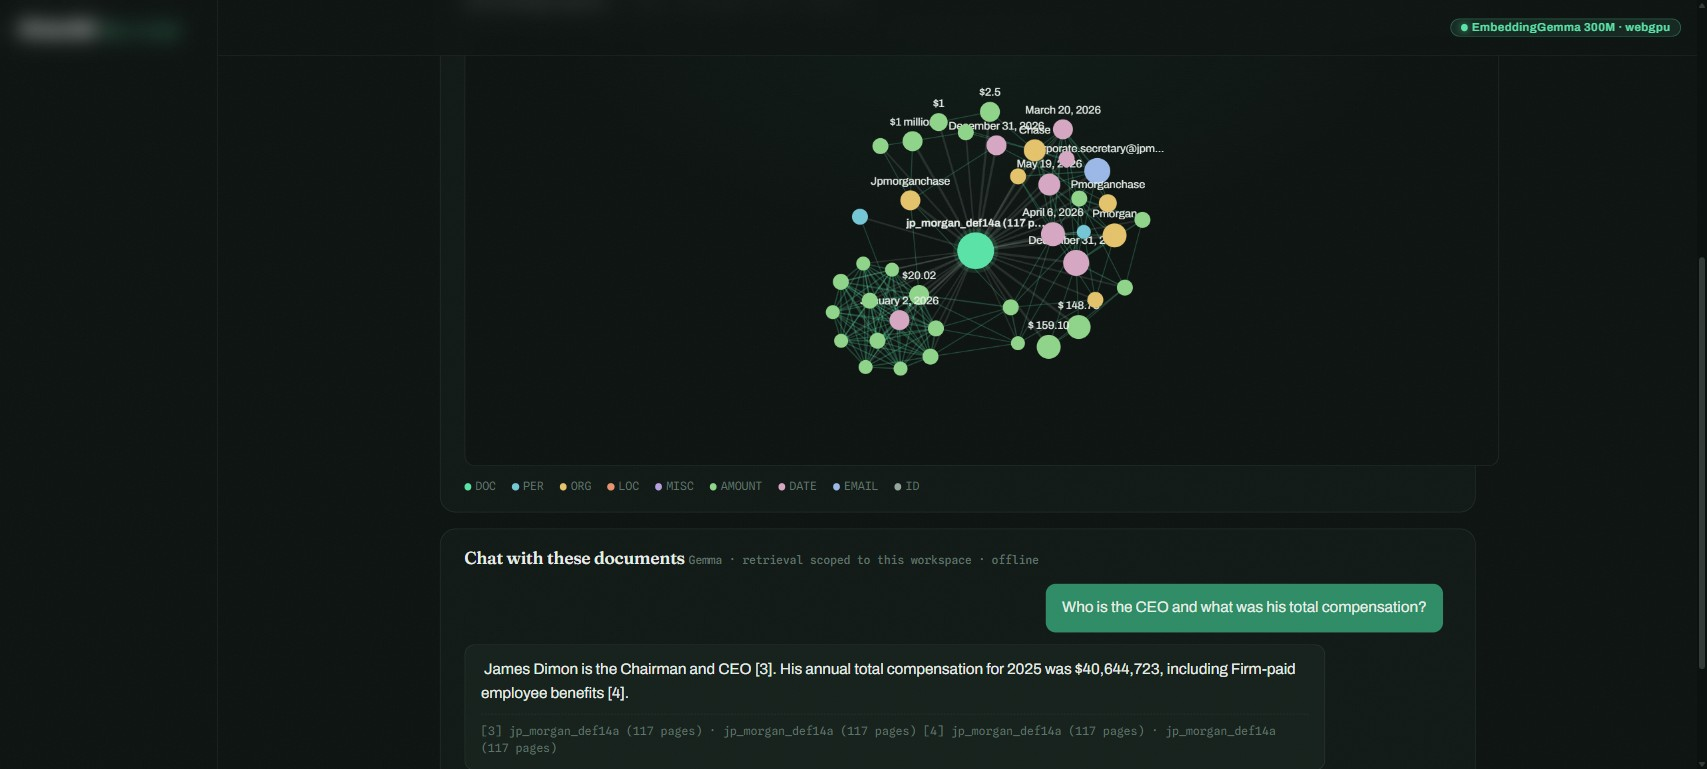
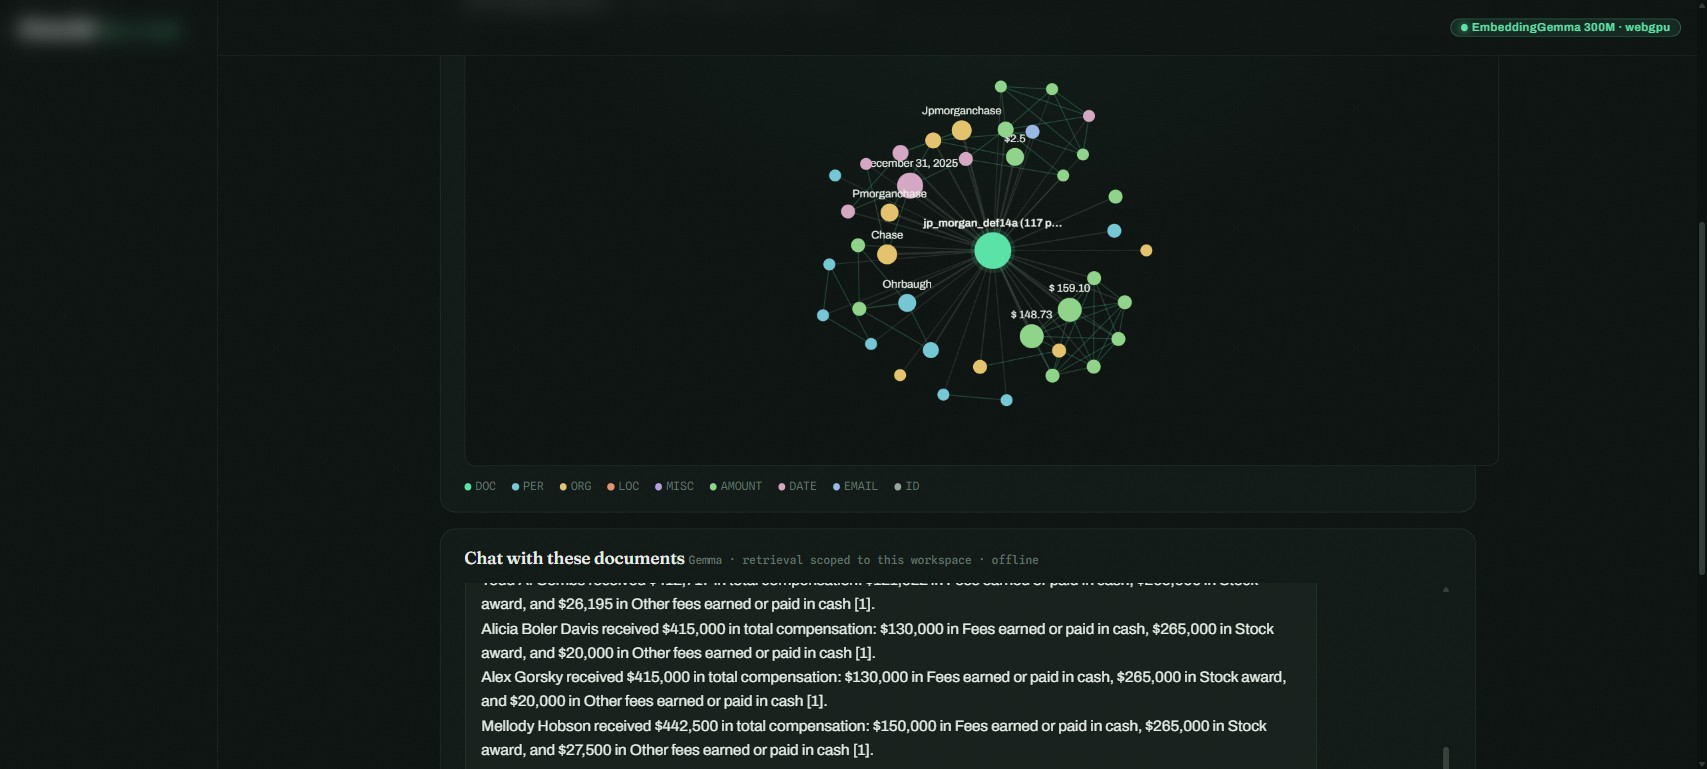
Workspace chat quality: table-faithful extraction and full-coverage retrieval
- PDF extraction marks wide x-gaps as column separators so table cells
  no longer collide when linearized
- Chunker splits blank-line-free blocks (PDF table pages) at line
  boundaries: chunks were exceeding the embedder window and prompts
- Embed the whole document (cap 500 chunks); NER samples evenly instead
  (retrieval quality collapsed on sampled indexes for table questions)
- Prompt: copy numbers exactly, cells are |-separated; cite footer dedupe
- Validated on JP Morgan DEF 14A: all 9 director compensation rows now
  itemized with arithmetic-consistent cash/stock/other breakdowns

diff --git a/src/services/workspaceService.js b/src/services/workspaceService.js
@@ -94,13 +94,19 @@ export async function ingestFiles(fileList) {
     ws.chunks.push(...chunks.map((c) => ({ ...c, docTitle: title })))
     patchDoc({ chunks: chunks.length, status: 'extracting' })
 
-    // 2. entity extraction per chunk (NER + patterns)
+    // 2. entity extraction (NER + patterns) over an even sample — the
+    // graph needs representative coverage, not every chunk
+    let nerChunks = chunks
+    if (chunks.length > cfg.nerChunksPerDoc) {
+      const stride = chunks.length / cfg.nerChunksPerDoc
+      nerChunks = Array.from({ length: cfg.nerChunksPerDoc }, (_, i) => chunks[Math.floor(i * stride)])
+    }
     let docEntities = 0
     let chunkIndex = 0
-    for (const chunk of chunks) {
+    for (const chunk of nerChunks) {
       chunkIndex += 1
       useStore.getState().patchWorkspace({
-        progress: { docName: title, phase: `entities ${chunkIndex}/${chunks.length}` },
+        progress: { docName: title, phase: `entities ${chunkIndex}/${nerChunks.length}` },
       })
       const found = await extractEntities(chunk.text)
       for (const e of found) {
@@ -261,8 +267,10 @@ export function truncateAtRunaway(text) {
 }
 
 function buildChatPrompt(question, passages, history) {
+  // chunks are already size-bounded by the chunker; sending them whole
+  // matters for tables, where truncation conflates adjacent rows
   const context = passages
-    .map((p, i) => `[${i + 1}] ${p.docTitle} — ${p.heading}\n${p.text.slice(0, 900)}`)
+    .map((p, i) => `[${i + 1}] ${p.docTitle} — ${p.heading}\n${p.text}`)
     .join('\n\n')
   const turns = history
     .map((m) => `${m.role === 'user' ? 'User' : 'Assistant'}: ${m.text}`)
@@ -270,6 +278,8 @@ function buildChatPrompt(question, passages, history) {
   return [
     'You are a document analyst. Answer using ONLY the numbered excerpts below.',
     'Cite excerpts as [1], [2]… after claims. If the excerpts do not contain the answer, say so plainly.',
+    'Copy names and numbers EXACTLY as they appear in the excerpts — never round, merge or invent figures.',
+    'In table excerpts, cells are separated by "|" — read each row carefully.',
     'Be concise. Never repeat a sentence. Give exactly one answer, then stop.',
     '',
     context,
@@ -282,8 +292,15 @@ function buildChatPrompt(question, passages, history) {
 
 function citedDocs(text, passages) {
   const nums = [...new Set([...text.matchAll(/\[(\d+)\]/g)].map((m) => Number(m[1])))]
-  return nums
-    .map((n) => passages[n - 1])
-    .filter(Boolean)
-    .map((p, i) => ({ n: nums[i], title: p.docTitle, heading: p.heading }))
+  const seen = new Set()
+  const out = []
+  for (const n of nums) {
+    const p = passages[n - 1]
+    if (!p || seen.has(n)) continue
+    seen.add(n)
+    // PDFs without markdown headings inherit the doc title as heading — skip the duplicate
+    const heading = p.heading && p.heading !== p.docTitle ? p.heading : null
+    out.push({ n, title: p.docTitle, heading })
+  }
+  return out
 }

diff --git a/src/ml/chunker.js b/src/ml/chunker.js
@@ -33,11 +33,16 @@ export function chunkDocument(doc, cfg) {
       heading = block.heading
       continue
     }
-    if (buf.length + block.text.length > cfg.targetChars && buf.length >= cfg.minChars) {
-      flush()
-      buf = overlapTail ? overlapTail + '\n' : ''
+    // PDF table pages arrive as one giant blank-line-free block; split it
+    // at line boundaries or the chunk exceeds the embedder's window and
+    // gets silently truncated at inference time
+    for (const piece of splitOversized(block.text, cfg.targetChars)) {
+      if (buf.length + piece.length > cfg.targetChars && buf.length >= cfg.minChars) {
+        flush()
+        buf = overlapTail ? overlapTail + '\n' : ''
+      }
+      buf += (buf ? '\n\n' : '') + piece
     }
-    buf += (buf ? '\n\n' : '') + block.text
   }
   flush()
 
@@ -47,6 +52,27 @@ export function chunkDocument(doc, cfg) {
     chunks[chunks.length - 1].text += '\n\n' + runt.text
   }
   return chunks
+}
+
+function splitOversized(text, targetChars) {
+  if (text.length <= targetChars) return [text]
+  const pieces = []
+  let buf = ''
+  for (const line of text.split('\n')) {
+    if (buf && buf.length + line.length + 1 > targetChars) {
+      pieces.push(buf)
+      buf = ''
+    }
+    // a single line longer than the target gets hard-wrapped as a last resort
+    let rest = line
+    while (rest.length > targetChars) {
+      pieces.push(rest.slice(0, targetChars))
+      rest = rest.slice(targetChars)
+    }
+    buf += (buf ? '\n' : '') + rest
+  }
+  if (buf) pieces.push(buf)
+  return pieces
 }
 
 function splitBlocks(markdown) {

diff --git a/src/ml/pdf/extractText.js b/src/ml/pdf/extractText.js
@@ -16,20 +16,31 @@ export async function extractPdfText(file, { onProgress } = {}) {
   for (let p = 1; p <= pdf.numPages; p++) {
     const page = await pdf.getPage(p)
     const content = await page.getTextContent()
-    // group items into lines by their y position, then into paragraphs
+    // group items into lines by y position; wide x-gaps inside a line are
+    // table column boundaries — mark them so amounts don't collide into
+    // neighbouring cells when the text is linearized
     let lastY = null
+    let lastEndX = null
     let line = []
     const lines = []
+    const flushLine = () => {
+      if (line.length) lines.push(line.join(''))
+      line = []
+      lastEndX = null
+    }
     for (const item of content.items) {
       const y = Math.round(item.transform[5])
-      if (lastY !== null && Math.abs(y - lastY) > 2) {
-        lines.push(line.join(' '))
-        line = []
+      const x = item.transform[4]
+      if (lastY !== null && Math.abs(y - lastY) > 2) flushLine()
+      const str = item.str.trim()
+      if (str) {
+        const gap = lastEndX !== null ? x - lastEndX : 0
+        line.push(line.length === 0 ? str : (gap > 14 ? ' | ' : ' ') + str)
       }
-      if (item.str.trim()) line.push(item.str.trim())
+      lastEndX = x + (item.width ?? 0)
       lastY = y
     }
-    if (line.length) lines.push(line.join(' '))
+    flushLine()
     pages.push(lines.join('\n'))
     onProgress?.({ page: p, total: pdf.numPages })
   }

diff --git a/tests/chunker-hardening.test.js b/tests/chunker-hardening.test.js
@@ -19,6 +19,16 @@ describe('chunkDocument hardening', () => {
     expect(chunkDocument(doc, cfg)).toHaveLength(0)
   })
 
+  it('bounds chunks even when the source has no blank lines (PDF tables)', () => {
+    const row = 'Director Name | $415,000 | $250,000 | $665,000'
+    const doc = { id: 'tbl', title: 'T', body: Array.from({ length: 200 }, () => row).join('\n') }
+    const chunks = chunkDocument(doc, cfg)
+    expect(chunks.length).toBeGreaterThan(3)
+    for (const c of chunks) {
+      expect(c.text.length).toBeLessThanOrEqual(cfg.targetChars + cfg.overlapChars + 100)
+    }
+  })
+
   it('survives empty and whitespace-only bodies', () => {
     expect(chunkDocument({ id: 'e', title: 'E', body: '' }, cfg)).toHaveLength(0)
     expect(chunkDocument({ id: 'w', title: 'W', body: '  \n\n  ' }, cfg)).toHaveLength(0)

diff --git a/src/config/app.config.js b/src/config/app.config.js
@@ -49,8 +49,13 @@ export const appConfig = {
     historyTurns: 4,
     /** Entities below this mention count stay off the graph. */
     minMentions: 1,
-    /** Big documents (e.g. long PDFs) are sampled evenly to this many chunks. */
-    maxChunksPerDoc: 120,
+    /**
+     * Embedding covers (nearly) everything — retrieval quality collapses on
+     * sampled indexes when the answer lives in one specific table.
+     */
+    maxChunksPerDoc: 500,
+    /** NER is ~10x slower per chunk; the graph samples evenly instead. */
+    nerChunksPerDoc: 100,
     /** Cap graph size so the canvas stays legible. */
     maxEntities: 40,
   },

diff --git a/src/views/WorkspaceView.jsx b/src/views/WorkspaceView.jsx
@@ -189,7 +189,7 @@ function WorkspaceChat() {
             <p className="msg__text">{m.text || '…'}</p>
             {m.cites?.length > 0 && !m.streaming && (
               <p className="msg__cites mono dim">
-                {m.cites.map((c) => `[${c.n}] ${c.title} · ${c.heading}`).join('   ')}
+                {m.cites.map((c) => `[${c.n}] ${c.title}${c.heading ? ` · ${c.heading}` : ''}`).join('   ')}
               </p>
             )}
           </div>
